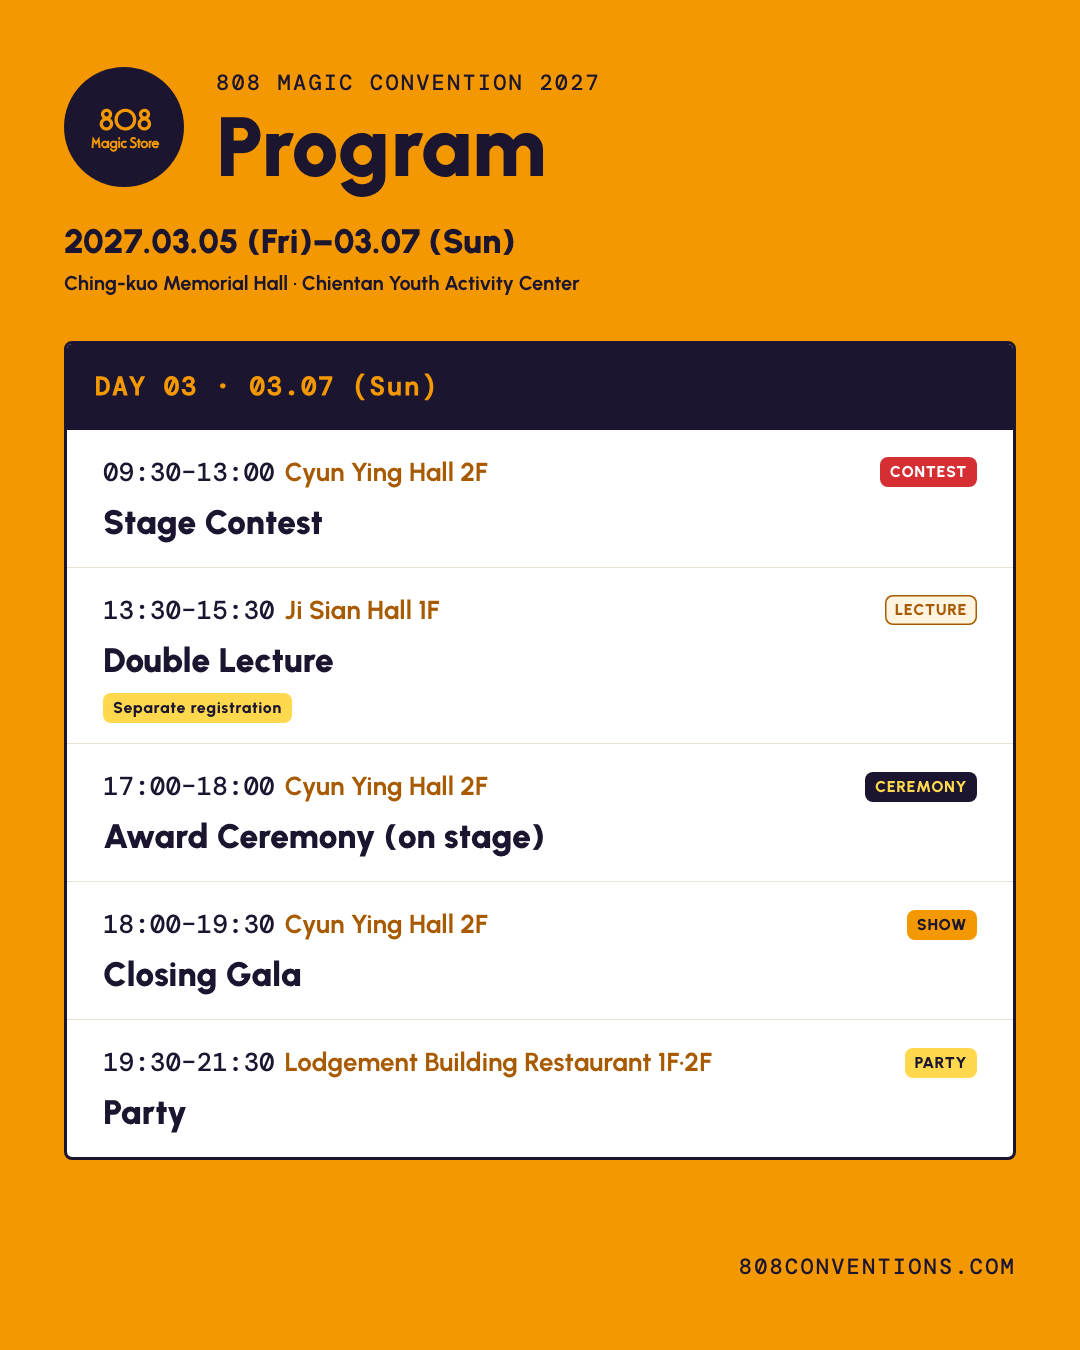
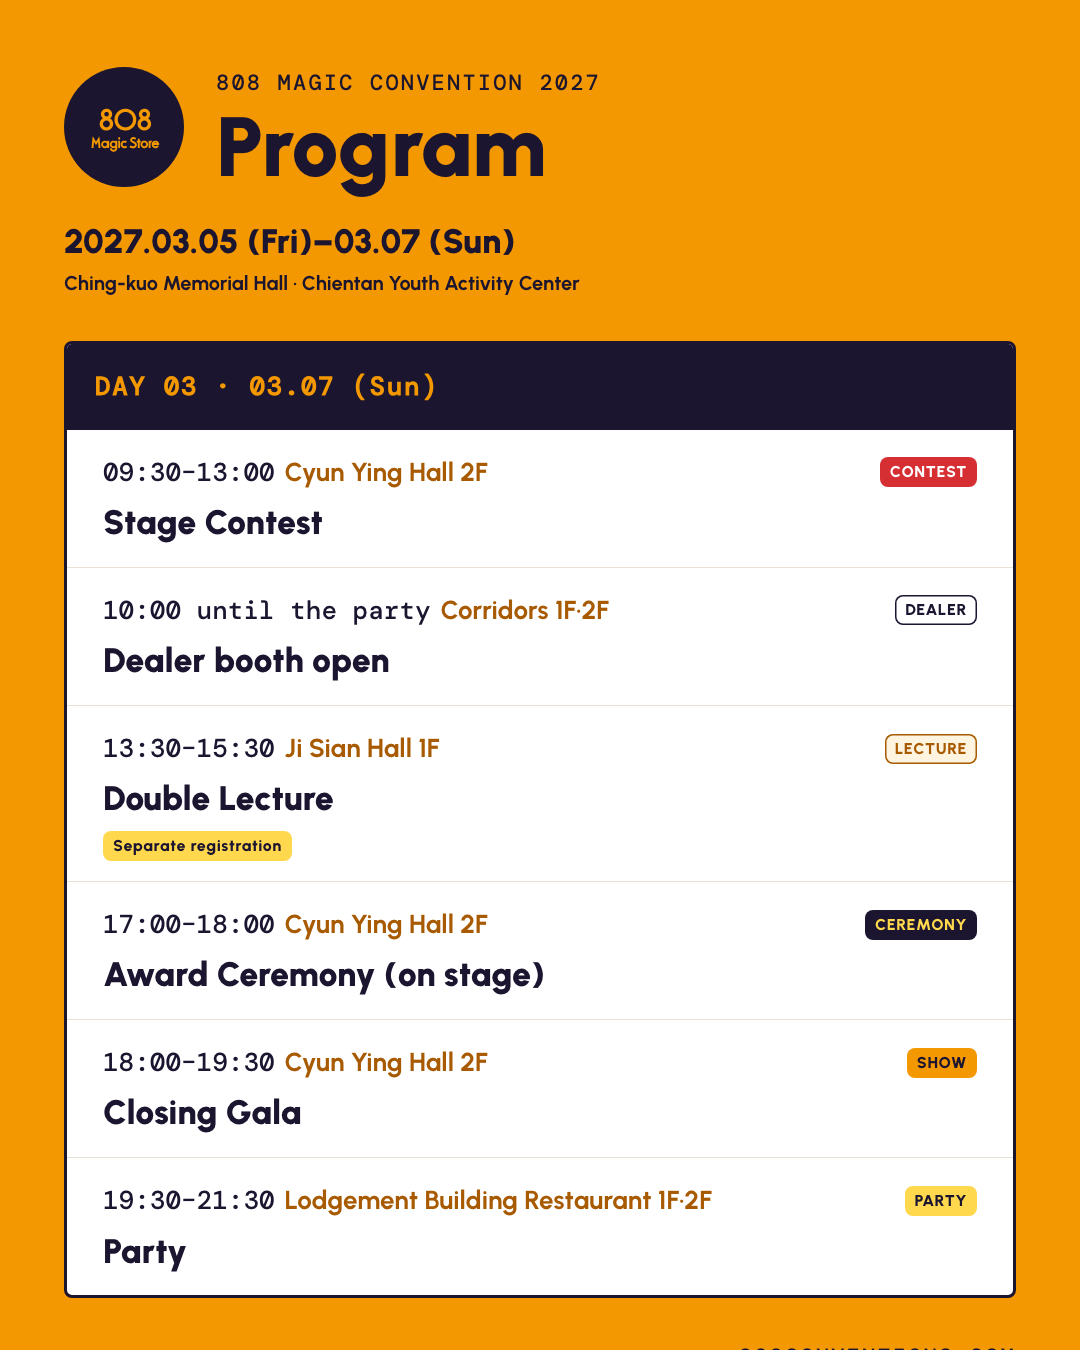
Update site 2026-10-30 10:23

diff --git a/ru/schedule.html b/ru/schedule.html
@@ -118,6 +118,10 @@
   <b>Конкурс сценической магии</b>
 </li>
 <li class="sitem">
+  <div class="sitem__top"><span class="sitem__when"><span class="m8-data">10:00 до праздничного ужина</span><span class="sitem__room">Коридоры 1F·2F</span></span><span class="tag tag--dealer">Дилеры DEALER</span></div>
+  <b>Открытие зоны дилеров</b>
+</li>
+<li class="sitem">
   <div class="sitem__top"><span class="sitem__when"><span class="m8-data">13:30–15:30</span><span class="sitem__room">Ji Sian Hall 1F</span></span><span class="tag tag--lecture">Лекция LECTURE</span></div>
   <b>Двойная лекция</b><a class="tag tag--signup" href="register.html#ws-double">Отдельная запись</a>
 </li>

diff --git a/schedule.html b/schedule.html
@@ -118,6 +118,10 @@
   <b>舞台比賽</b><small>Stage Contest</small>
 </li>
 <li class="sitem">
+  <div class="sitem__top"><span class="sitem__when"><span class="m8-data">10:00–慶功晚宴前</span><span class="sitem__room">走廊 1F·2F</span></span><span class="tag tag--dealer">Dealer DEALER</span></div>
+  <b>Dealer 攤位開放</b><small>Dealer booth open</small>
+</li>
+<li class="sitem">
   <div class="sitem__top"><span class="sitem__when"><span class="m8-data">13:30–15:30</span><span class="sitem__room">集賢廳 1F</span></span><span class="tag tag--lecture">講座 LECTURE</span></div>
   <b>Double Lecture 研習會</b><small>Double Lecture</small><a class="tag tag--signup" href="register.html#ws-double">需另外報名</a>
 </li>

diff --git a/ru/dealers.html b/ru/dealers.html
@@ -81,7 +81,7 @@
 <section class="strip" aria-label="О зоне дилеров">
   <div class="wrap strip__in">
     <div><span class="m8-data">LOCATION Где</span><b>Ching-kuo Memorial Hall, коридоры 1F и 2F</b></div>
-    <div><span class="m8-data">HOURS Часы работы</span><b class="strip__hours"><span class="m8-data">03.06 (сб)</span> с 11:00</b></div>
+    <div><span class="m8-data">HOURS Часы работы</span><b class="strip__hours"><span class="m8-data">03.06 (сб)</span> с 11:00<br><span class="m8-data">03.07 (вс)</span> 10:00 до праздничного ужина</b></div>
     <div><span class="m8-data">DEALERS Дилеров</span><b>Уточняется</b></div>
   </div>
 </section>

diff --git a/ja/schedule.html b/ja/schedule.html
@@ -118,6 +118,10 @@
   <b>ステージ・コンテスト</b>
 </li>
 <li class="sitem">
+  <div class="sitem__top"><span class="sitem__when"><span class="m8-data">10:00〜打ち上げパーティー前</span><span class="sitem__room">廊下 1F·2F</span></span><span class="tag tag--dealer">ディーラー DEALER</span></div>
+  <b>ディーラーブース開場</b>
+</li>
+<li class="sitem">
   <div class="sitem__top"><span class="sitem__when"><span class="m8-data">13:30–15:30</span><span class="sitem__room">Ji Sian Hall 1F</span></span><span class="tag tag--lecture">レクチャー LECTURE</span></div>
   <b>ダブル・レクチャー</b><a class="tag tag--signup" href="register.html#ws-double">別途申込</a>
 </li>

diff --git a/fr/schedule.html b/fr/schedule.html
@@ -118,6 +118,10 @@
   <b>Concours de scène</b>
 </li>
 <li class="sitem">
+  <div class="sitem__top"><span class="sitem__when"><span class="m8-data">10:00 jusqu&#x27;à la soirée</span><span class="sitem__room">Couloirs 1F·2F</span></span><span class="tag tag--dealer">Dealers DEALER</span></div>
+  <b>Ouverture de l&#x27;espace dealers</b>
+</li>
+<li class="sitem">
   <div class="sitem__top"><span class="sitem__when"><span class="m8-data">13:30–15:30</span><span class="sitem__room">Ji Sian Hall 1F</span></span><span class="tag tag--lecture">Conférence LECTURE</span></div>
   <b>Double conférence</b><a class="tag tag--signup" href="register.html#ws-double">Inscription séparée</a>
 </li>

diff --git a/es/dealers.html b/es/dealers.html
@@ -81,7 +81,7 @@
 <section class="strip" aria-label="Información de la zona de dealers">
   <div class="wrap strip__in">
     <div><span class="m8-data">LOCATION Ubicación</span><b>Ching-kuo Memorial Hall, pasillos 1F y 2F</b></div>
-    <div><span class="m8-data">HOURS Horario</span><b class="strip__hours"><span class="m8-data">03.06 (sáb)</span> desde las 11:00</b></div>
+    <div><span class="m8-data">HOURS Horario</span><b class="strip__hours"><span class="m8-data">03.06 (sáb)</span> desde las 11:00<br><span class="m8-data">03.07 (dom)</span> 10:00 hasta la fiesta</b></div>
     <div><span class="m8-data">DEALERS Dealers</span><b>Por confirmar</b></div>
   </div>
 </section>

diff --git a/fr/dealers.html b/fr/dealers.html
@@ -81,7 +81,7 @@
 <section class="strip" aria-label="Infos de l&#x27;espace dealers">
   <div class="wrap strip__in">
     <div><span class="m8-data">LOCATION Emplacement</span><b>Ching-kuo Memorial Hall, couloirs 1F et 2F</b></div>
-    <div><span class="m8-data">HOURS Horaires</span><b class="strip__hours"><span class="m8-data">03.06 (sam.)</span> dès 11:00</b></div>
+    <div><span class="m8-data">HOURS Horaires</span><b class="strip__hours"><span class="m8-data">03.06 (sam.)</span> dès 11:00<br><span class="m8-data">03.07 (dim.)</span> 10:00 jusqu&#x27;à la soirée</b></div>
     <div><span class="m8-data">DEALERS Dealers</span><b>À confirmer</b></div>
   </div>
 </section>

diff --git a/es/schedule.html b/es/schedule.html
@@ -118,6 +118,10 @@
   <b>Concurso de escena</b>
 </li>
 <li class="sitem">
+  <div class="sitem__top"><span class="sitem__when"><span class="m8-data">10:00 hasta la fiesta</span><span class="sitem__room">Pasillos 1F·2F</span></span><span class="tag tag--dealer">Dealers DEALER</span></div>
+  <b>Apertura de la zona de dealers</b>
+</li>
+<li class="sitem">
   <div class="sitem__top"><span class="sitem__when"><span class="m8-data">13:30–15:30</span><span class="sitem__room">Ji Sian Hall 1F</span></span><span class="tag tag--lecture">Conferencia LECTURE</span></div>
   <b>Doble conferencia</b><a class="tag tag--signup" href="register.html#ws-double">Inscripción aparte</a>
 </li>

diff --git a/ja/dealers.html b/ja/dealers.html
@@ -81,7 +81,7 @@
 <section class="strip" aria-label="ディーラーエリア情報">
   <div class="wrap strip__in">
     <div><span class="m8-data">LOCATION 場所</span><b>経国記念堂 1F・2F 廊下</b></div>
-    <div><span class="m8-data">HOURS 営業時間</span><b class="strip__hours"><span class="m8-data">03.06（土）</span> 11:00〜</b></div>
+    <div><span class="m8-data">HOURS 営業時間</span><b class="strip__hours"><span class="m8-data">03.06（土）</span> 11:00〜<br><span class="m8-data">03.07（日）</span> 10:00〜打ち上げパーティー前</b></div>
     <div><span class="m8-data">DEALERS 出店数</span><b>未定</b></div>
   </div>
 </section>

diff --git a/ko/schedule.html b/ko/schedule.html
@@ -118,6 +118,10 @@
   <b>스테이지 대회</b>
 </li>
 <li class="sitem">
+  <div class="sitem__top"><span class="sitem__when"><span class="m8-data">10:00~축하 파티 전</span><span class="sitem__room">복도 1F·2F</span></span><span class="tag tag--dealer">딜러 DEALER</span></div>
+  <b>딜러 부스 오픈</b>
+</li>
+<li class="sitem">
   <div class="sitem__top"><span class="sitem__when"><span class="m8-data">13:30–15:30</span><span class="sitem__room">Ji Sian Hall 1F</span></span><span class="tag tag--lecture">강연 LECTURE</span></div>
   <b>더블 강연</b><a class="tag tag--signup" href="register.html#ws-double">별도 신청</a>
 </li>

diff --git a/ko/dealers.html b/ko/dealers.html
@@ -81,7 +81,7 @@
 <section class="strip" aria-label="딜러 홀 정보">
   <div class="wrap strip__in">
     <div><span class="m8-data">LOCATION 위치</span><b>경국기념당 1F·2F 복도</b></div>
-    <div><span class="m8-data">HOURS 운영 시간</span><b class="strip__hours"><span class="m8-data">03.06 (토)</span> 11:00부터</b></div>
+    <div><span class="m8-data">HOURS 운영 시간</span><b class="strip__hours"><span class="m8-data">03.06 (토)</span> 11:00부터<br><span class="m8-data">03.07 (일)</span> 10:00~축하 파티 전</b></div>
     <div><span class="m8-data">DEALERS 업체 수</span><b>미정</b></div>
   </div>
 </section>

diff --git a/dealers.html b/dealers.html
@@ -81,7 +81,7 @@
 <section class="strip" aria-label="Dealer 區資訊">
   <div class="wrap strip__in">
     <div><span class="m8-data">LOCATION 地點</span><b>經國紀念堂 1F、2F 走廊</b></div>
-    <div><span class="m8-data">HOURS 開放時間</span><b class="strip__hours"><span class="m8-data">03.06（六）</span> 11:00 起</b></div>
+    <div><span class="m8-data">HOURS 開放時間</span><b class="strip__hours"><span class="m8-data">03.06（六）</span> 11:00 起<br><span class="m8-data">03.07（日）</span> 10:00–慶功晚宴前</b></div>
     <div><span class="m8-data">DEALERS 家數</span><b>未定</b></div>
   </div>
 </section>
